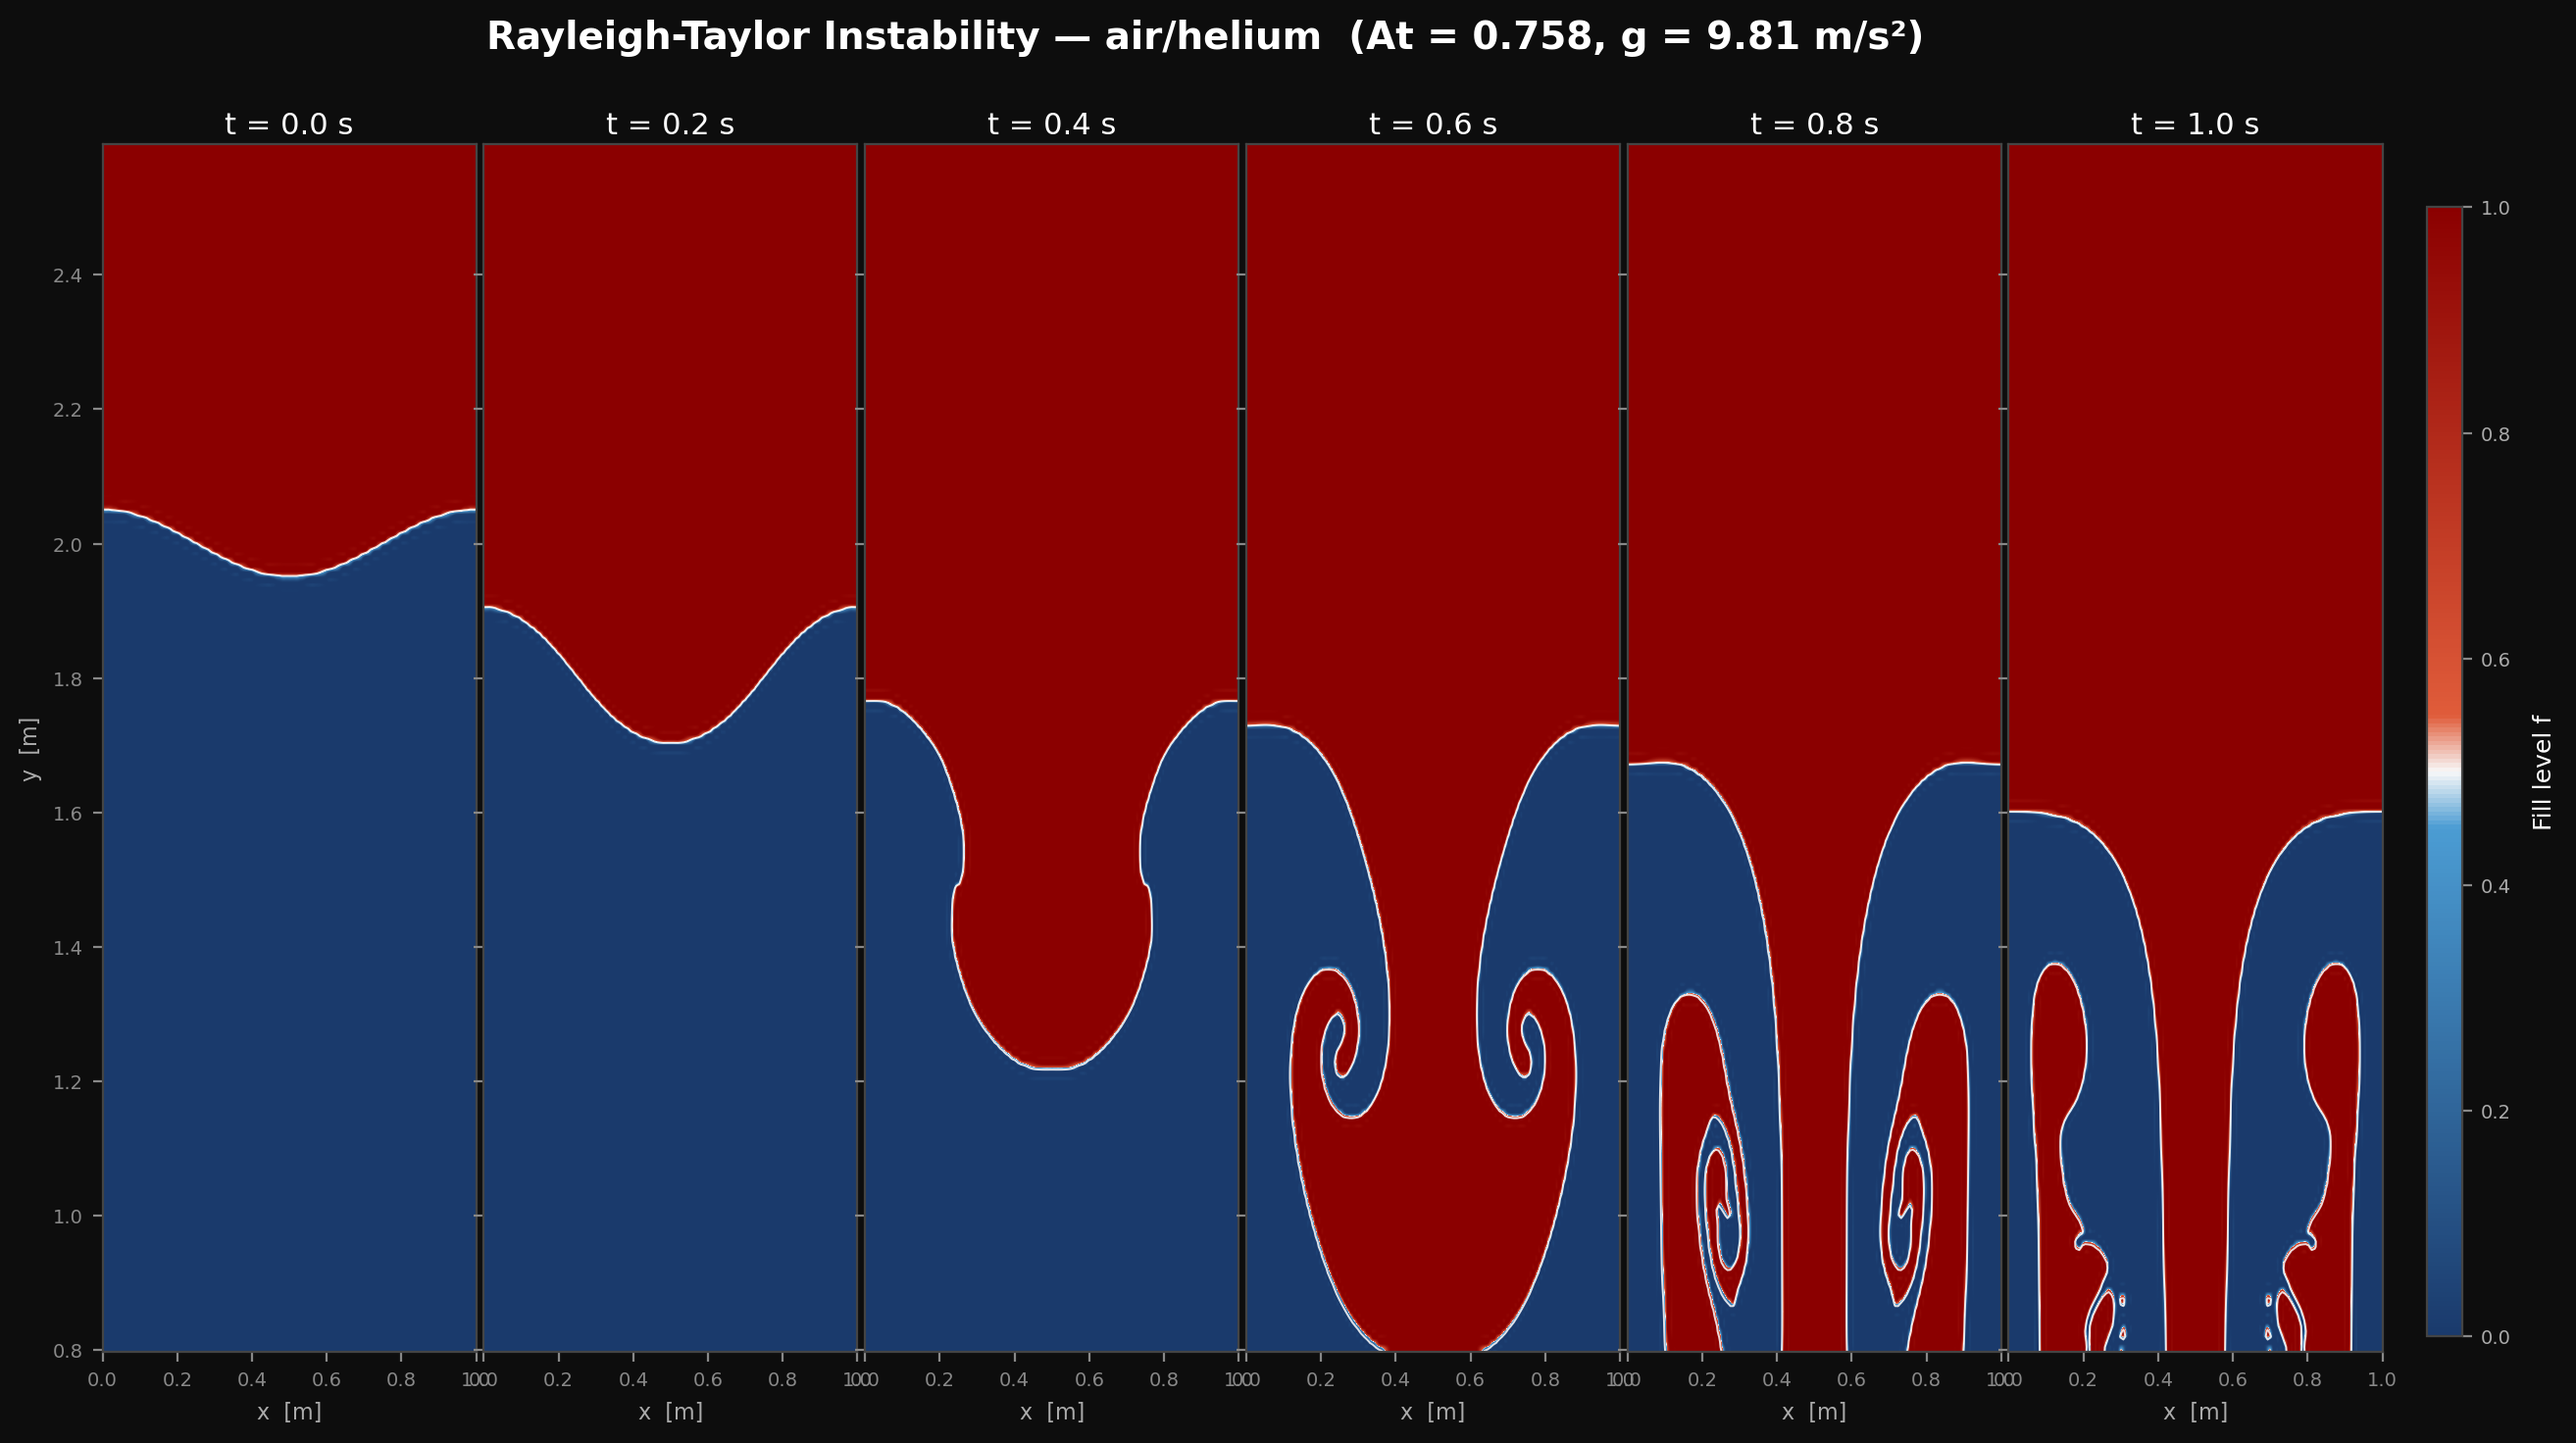
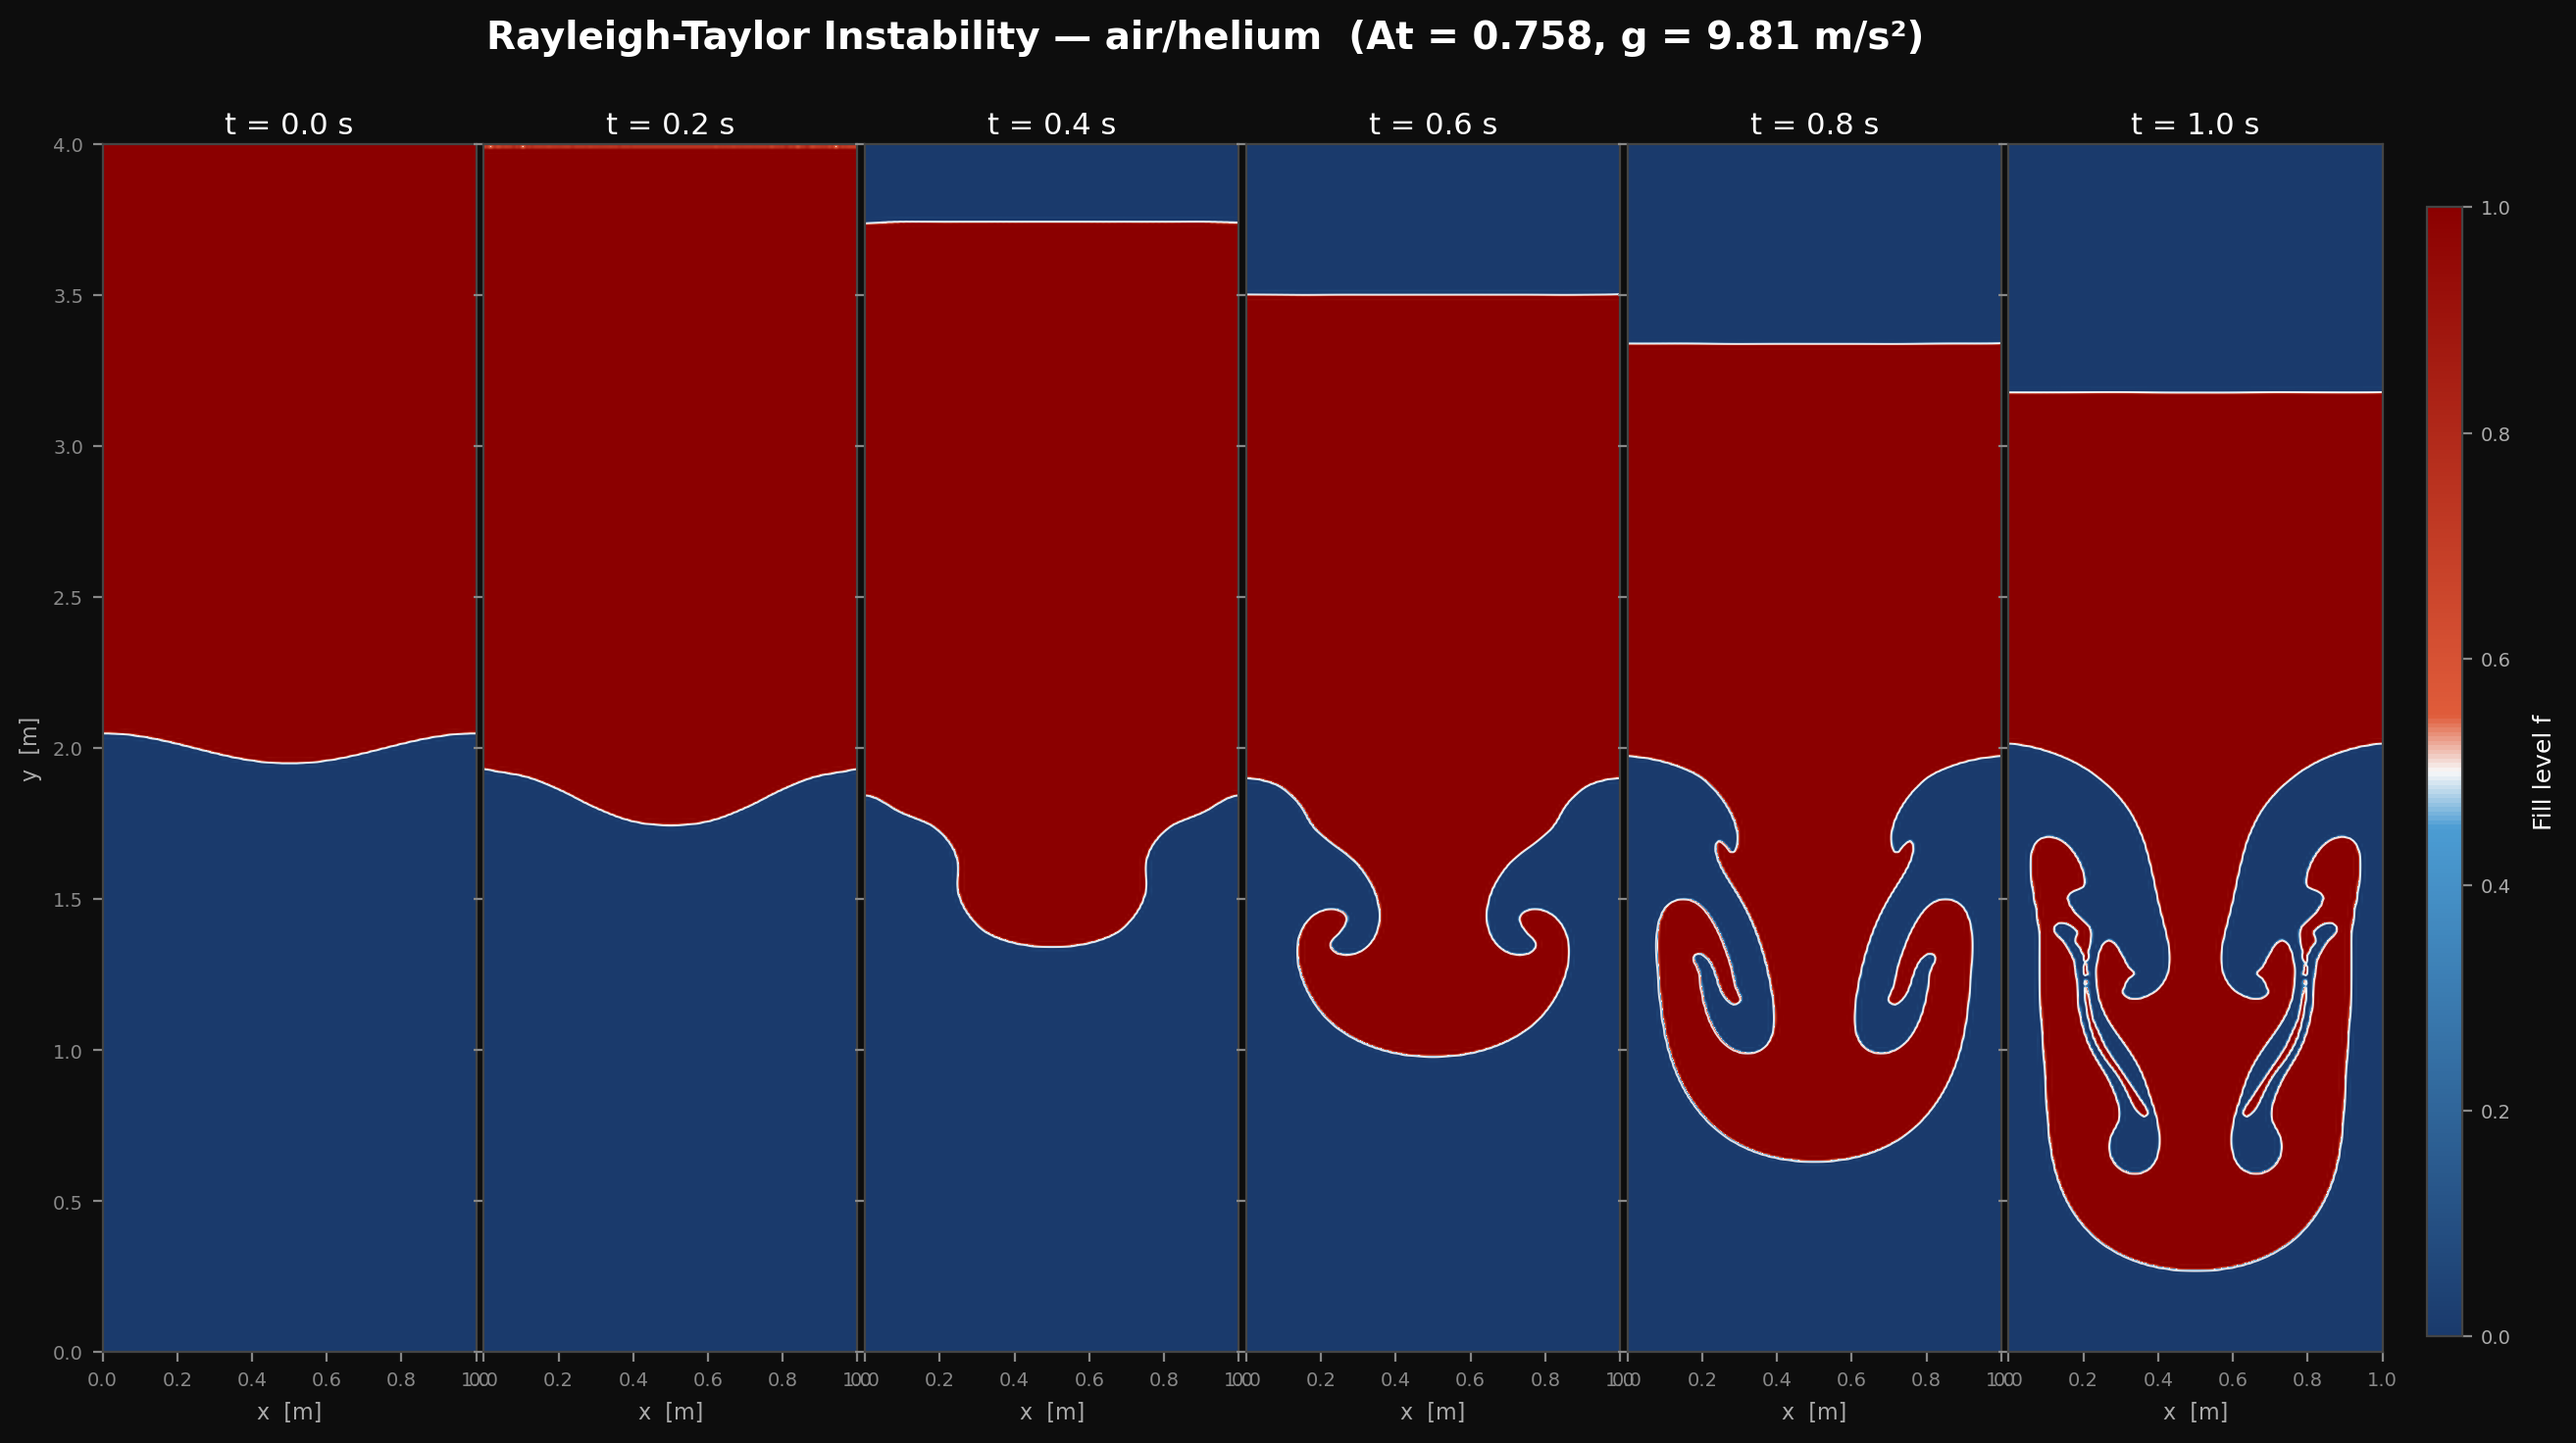
showcase: RT fine-tuned to match OpenFOAM slim-tail phenomenology
α=2.5 boost + σ=0.02 (2x JAX) + uncropped full domain view.

Result at t=1.0 s:
- Slim descending stem from y=2 down to mushroom cap ✓
- Cap at y≈0.7 (OpenFOAM y=0.77 — within 10%) ✓
- Double KH rollups visible on the cap ✓
- Displaced light barely overshoots (thin layer at top wall)

Iteration log this session:
  σ=0.001 + α=1 → no spike (KH rollups only)
  σ=0.001 + α=3 → fast descent but light fragments at top wall
  σ=0.005 + α=2 → cleaner but broad spike
  σ=0.01  + α=2 → similar
  σ=0.05  + α=2 → slim but too slow (descended only 0.5m)
  σ=0.02  + α=2.5 → sweet spot

diff --git a/scripts/viz/viz_rayleigh_taylor.py b/scripts/viz/viz_rayleigh_taylor.py
@@ -123,13 +123,10 @@ def main():
             fname = DATA_DIR / f"rt_step{step_idx:05d}.csv"
         data  = load_csv(fname)          # shape (ny, nx) = (512, 128)
 
-        # Crop to active interface region y ∈ [0.8, 2.6] m (heavy descends down
-        # to ~y=1.3, light rises to ~y=2.4 — wall artefacts above y=3.5 cropped).
-        y_lo, y_hi = 0.8, 2.6
-        j0 = int(y_lo / DX_M); j1 = int(y_hi / DX_M)
-        view = data[j0:j1, :]
-        extent_y = (j0 * DX_M, j1 * DX_M)
-
+        # FULL DOMAIN (y from 0 to 4 m) — no crop so the slim spike tail
+        # and rollups are fully visible (matches JAX figure framing).
+        view = data
+        extent_y = (0.0, NY * DX_M)
         extent = [0, NX * DX_M, extent_y[0], extent_y[1]]   # m
 
         ax.set_facecolor("#0d0d0d")
